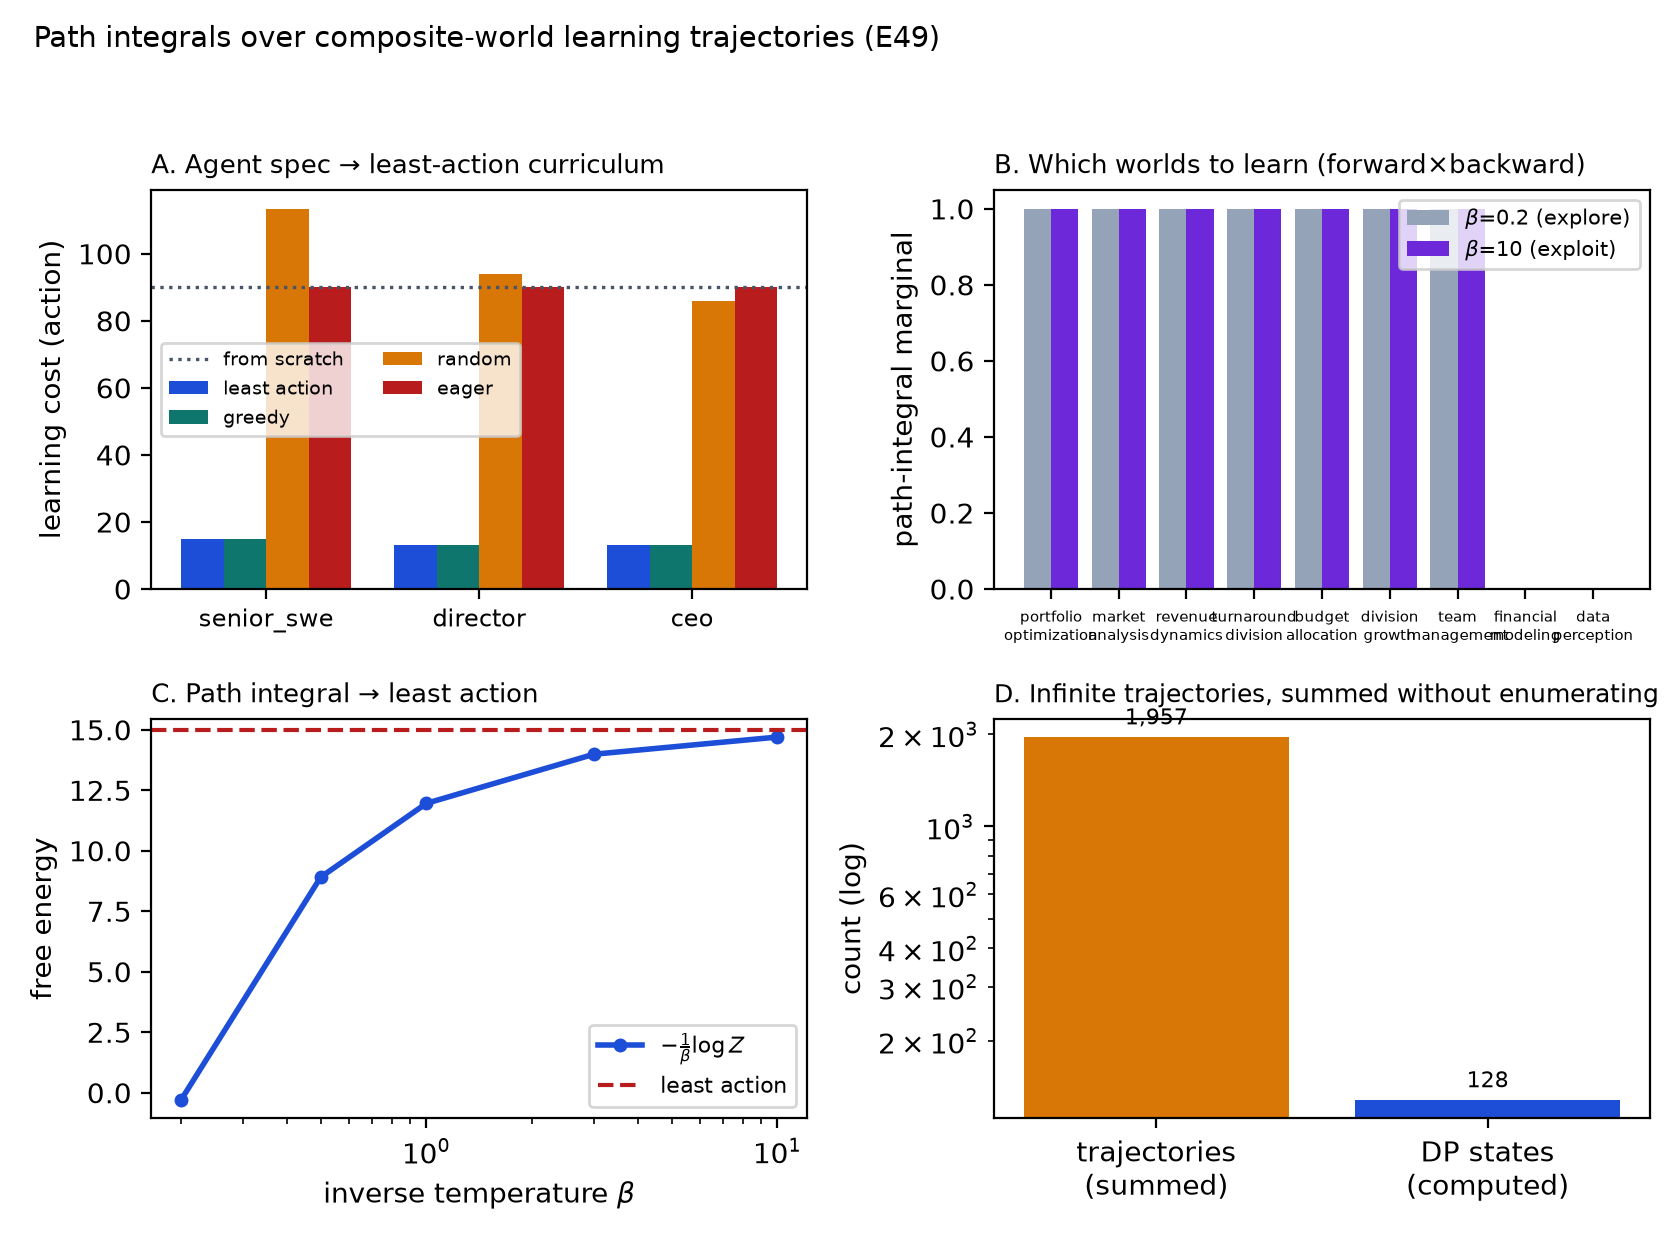
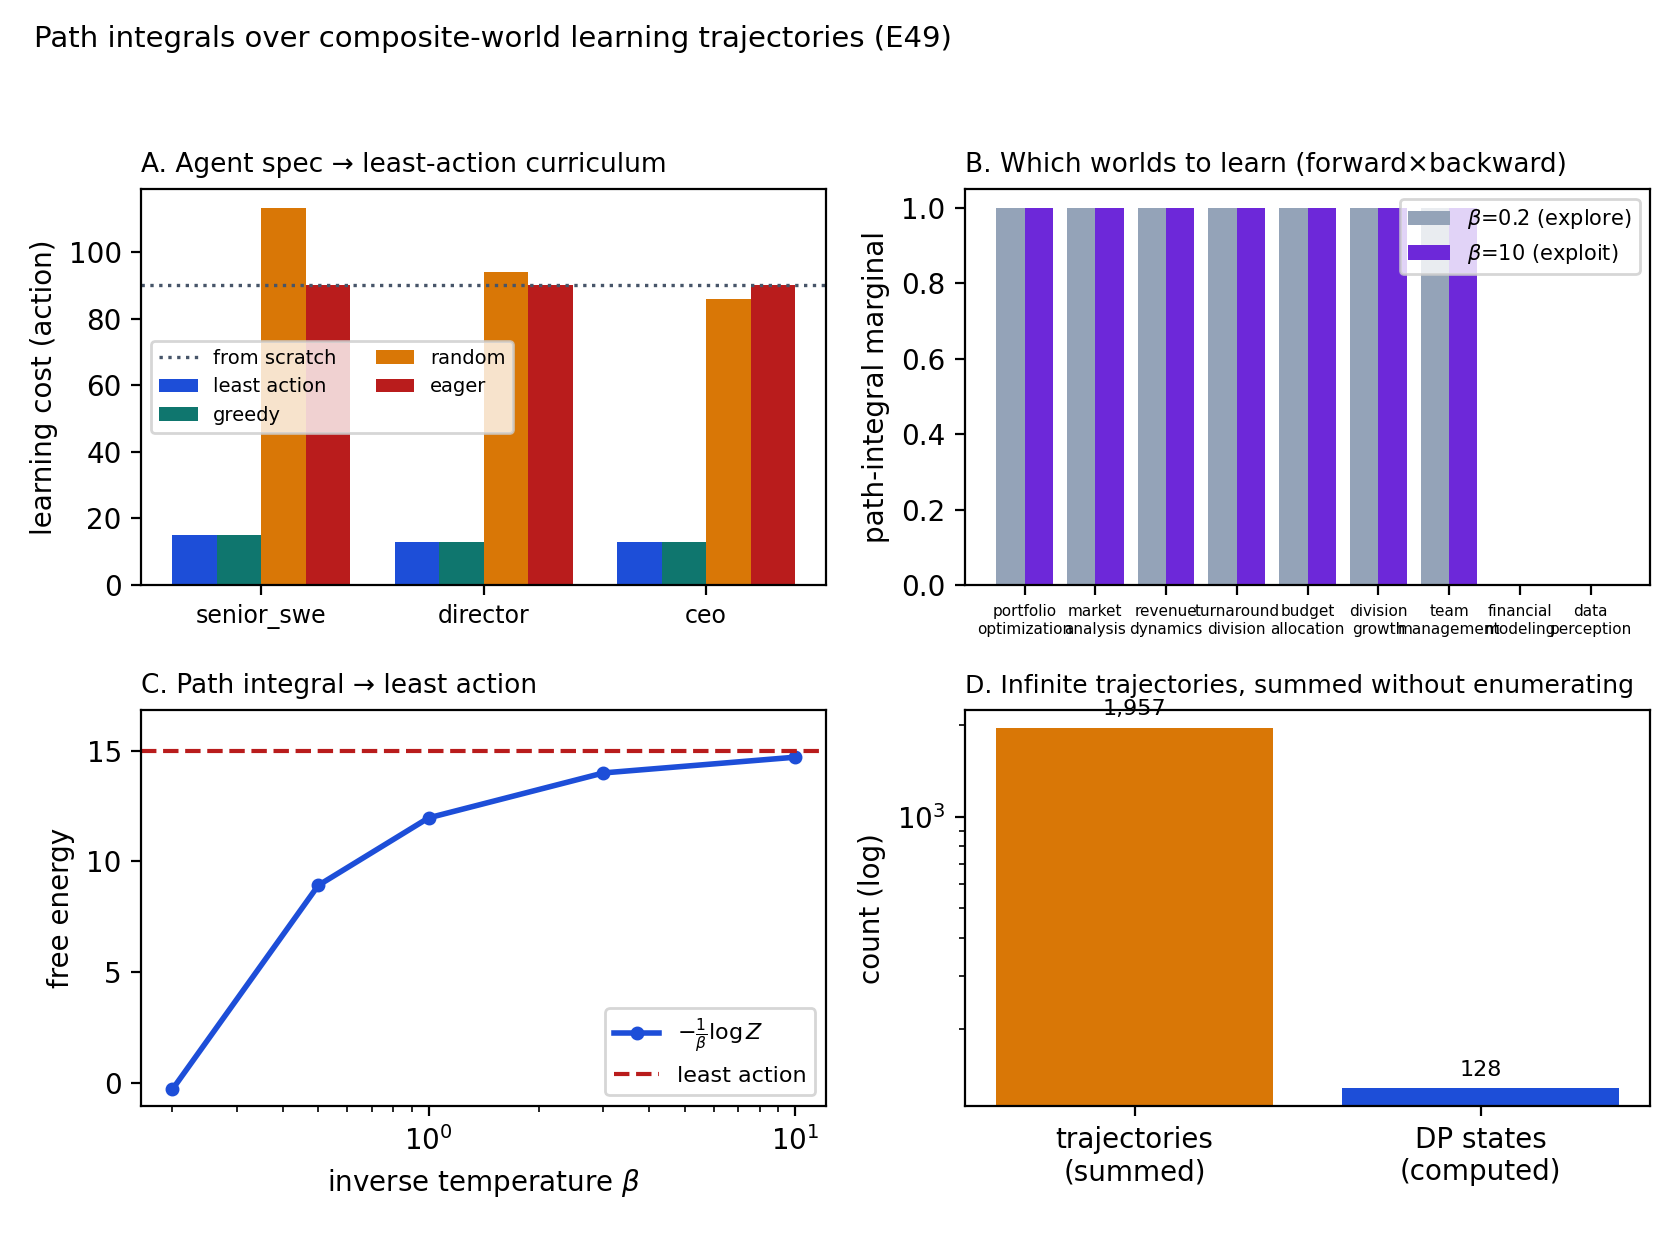
framework paper assets: path-integral panel-C headroom + ManyWorldsCoupleFactor comma
Two small asset fixes for the framework paper (source in make_paper_assets.py):
- fig_path_integral panel C: the red "least action" axhline coincided with the
  free-energy asymptote, so autoscale pinned it to the top spine (clipped). Add
  ~12% ylim headroom. Only path_integral.png re-rendered.
- ManyWorldsCoupleFactor 32768 -> 32,768 (the lone uncommatized 5-digit macro).

main.pdf recompiled. Compiles clean (64pp, 0 undefined refs/citations).

Changed region(s): [[0.0, 0.1226, 0.9905, 0.521], [0.0, 0.5516, 0.9905, 0.9806], [0.0619, 0.0, 0.5571, 0.0613]]

diff --git a/scripts/make_paper_assets.py b/scripts/make_paper_assets.py
@@ -1108,8 +1108,11 @@ def fig_path_integral(e49):
     betas = e49["betas"]
     fe = [e49["free_energy_by_beta"][str(bb)] for bb in betas]
     c.plot(betas, fe, "-o", color=BLUE, lw=2, markersize=4, label=r"$-\frac{1}{\beta}\log Z$")
-    c.axhline(e49["transfer"]["least_action_cost"], color=RED, lw=1.5, ls="--",
-              label="least action")
+    lac = e49["transfer"]["least_action_cost"]
+    c.axhline(lac, color=RED, lw=1.5, ls="--", label="least action")
+    # Headroom so the least-action line sits below the top spine (not flush/clipped).
+    _ymin = min(fe)
+    c.set_ylim(_ymin - 0.05 * (lac - _ymin), lac + 0.12 * (lac - _ymin))
     c.set_xscale("log")
     c.set_xlabel(r"inverse temperature $\beta$"); c.set_ylabel("free energy")
     c.set_title("C. Path integral → least action", fontsize=9.5, loc="left")
@@ -3130,7 +3133,7 @@ def numbers_tex(d):
         macro("ManyWorldsEnumMax", f"${sci(e46['enum_max_worlds'])}$"),
         macro("ManyWorldsConsistent", f"{big['consistent']:,}"),
         macro("ManyWorldsCoupleWidth", str(coup[-1]["w"])),
-        macro("ManyWorldsCoupleFactor", str(coup[-1]["factor_size"])),
+        macro("ManyWorldsCoupleFactor", f"{coup[-1]['factor_size']:,}"),
         macro("ManyWorldsCoupleIdeal", str(coup[-1]["ideal_factored"])),
     ]
     # E45 (next-token world models: length generalization)

diff --git a/papers/assets/numbers.tex b/papers/assets/numbers.tex
@@ -391,7 +391,7 @@
 \newcommand{\ManyWorldsEnumMax}{$8\times10^{5}$}
 \newcommand{\ManyWorldsConsistent}{31,622}
 \newcommand{\ManyWorldsCoupleWidth}{5}
-\newcommand{\ManyWorldsCoupleFactor}{32768}
+\newcommand{\ManyWorldsCoupleFactor}{32,768}
 \newcommand{\ManyWorldsCoupleIdeal}{40}
 \newcommand{\NextTokTasks}{3}
 \newcommand{\NextTokExactTasks}{3}